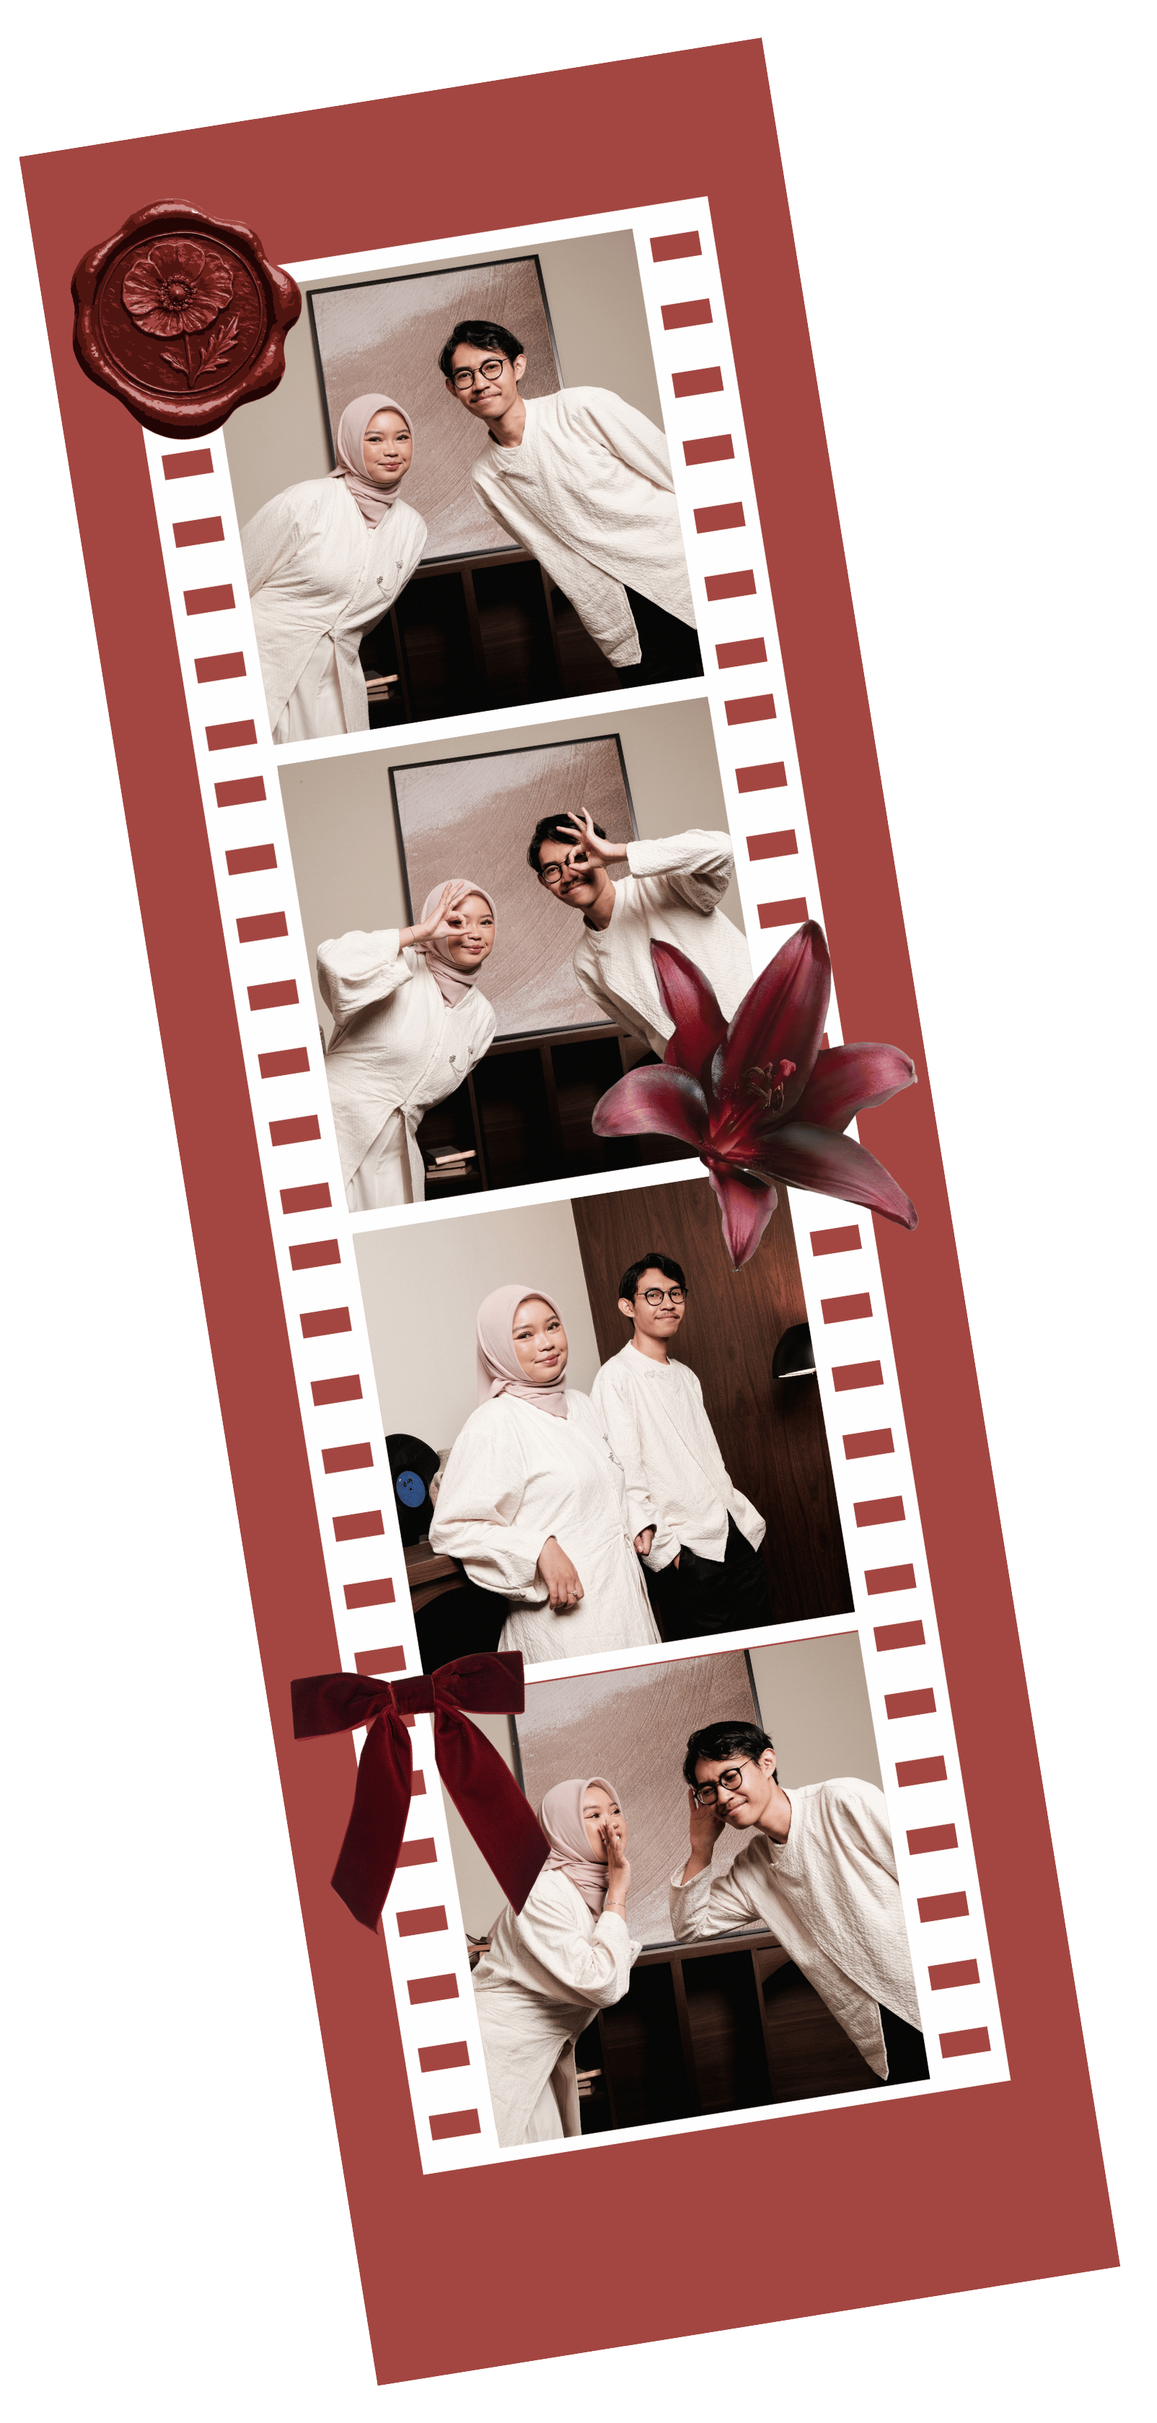
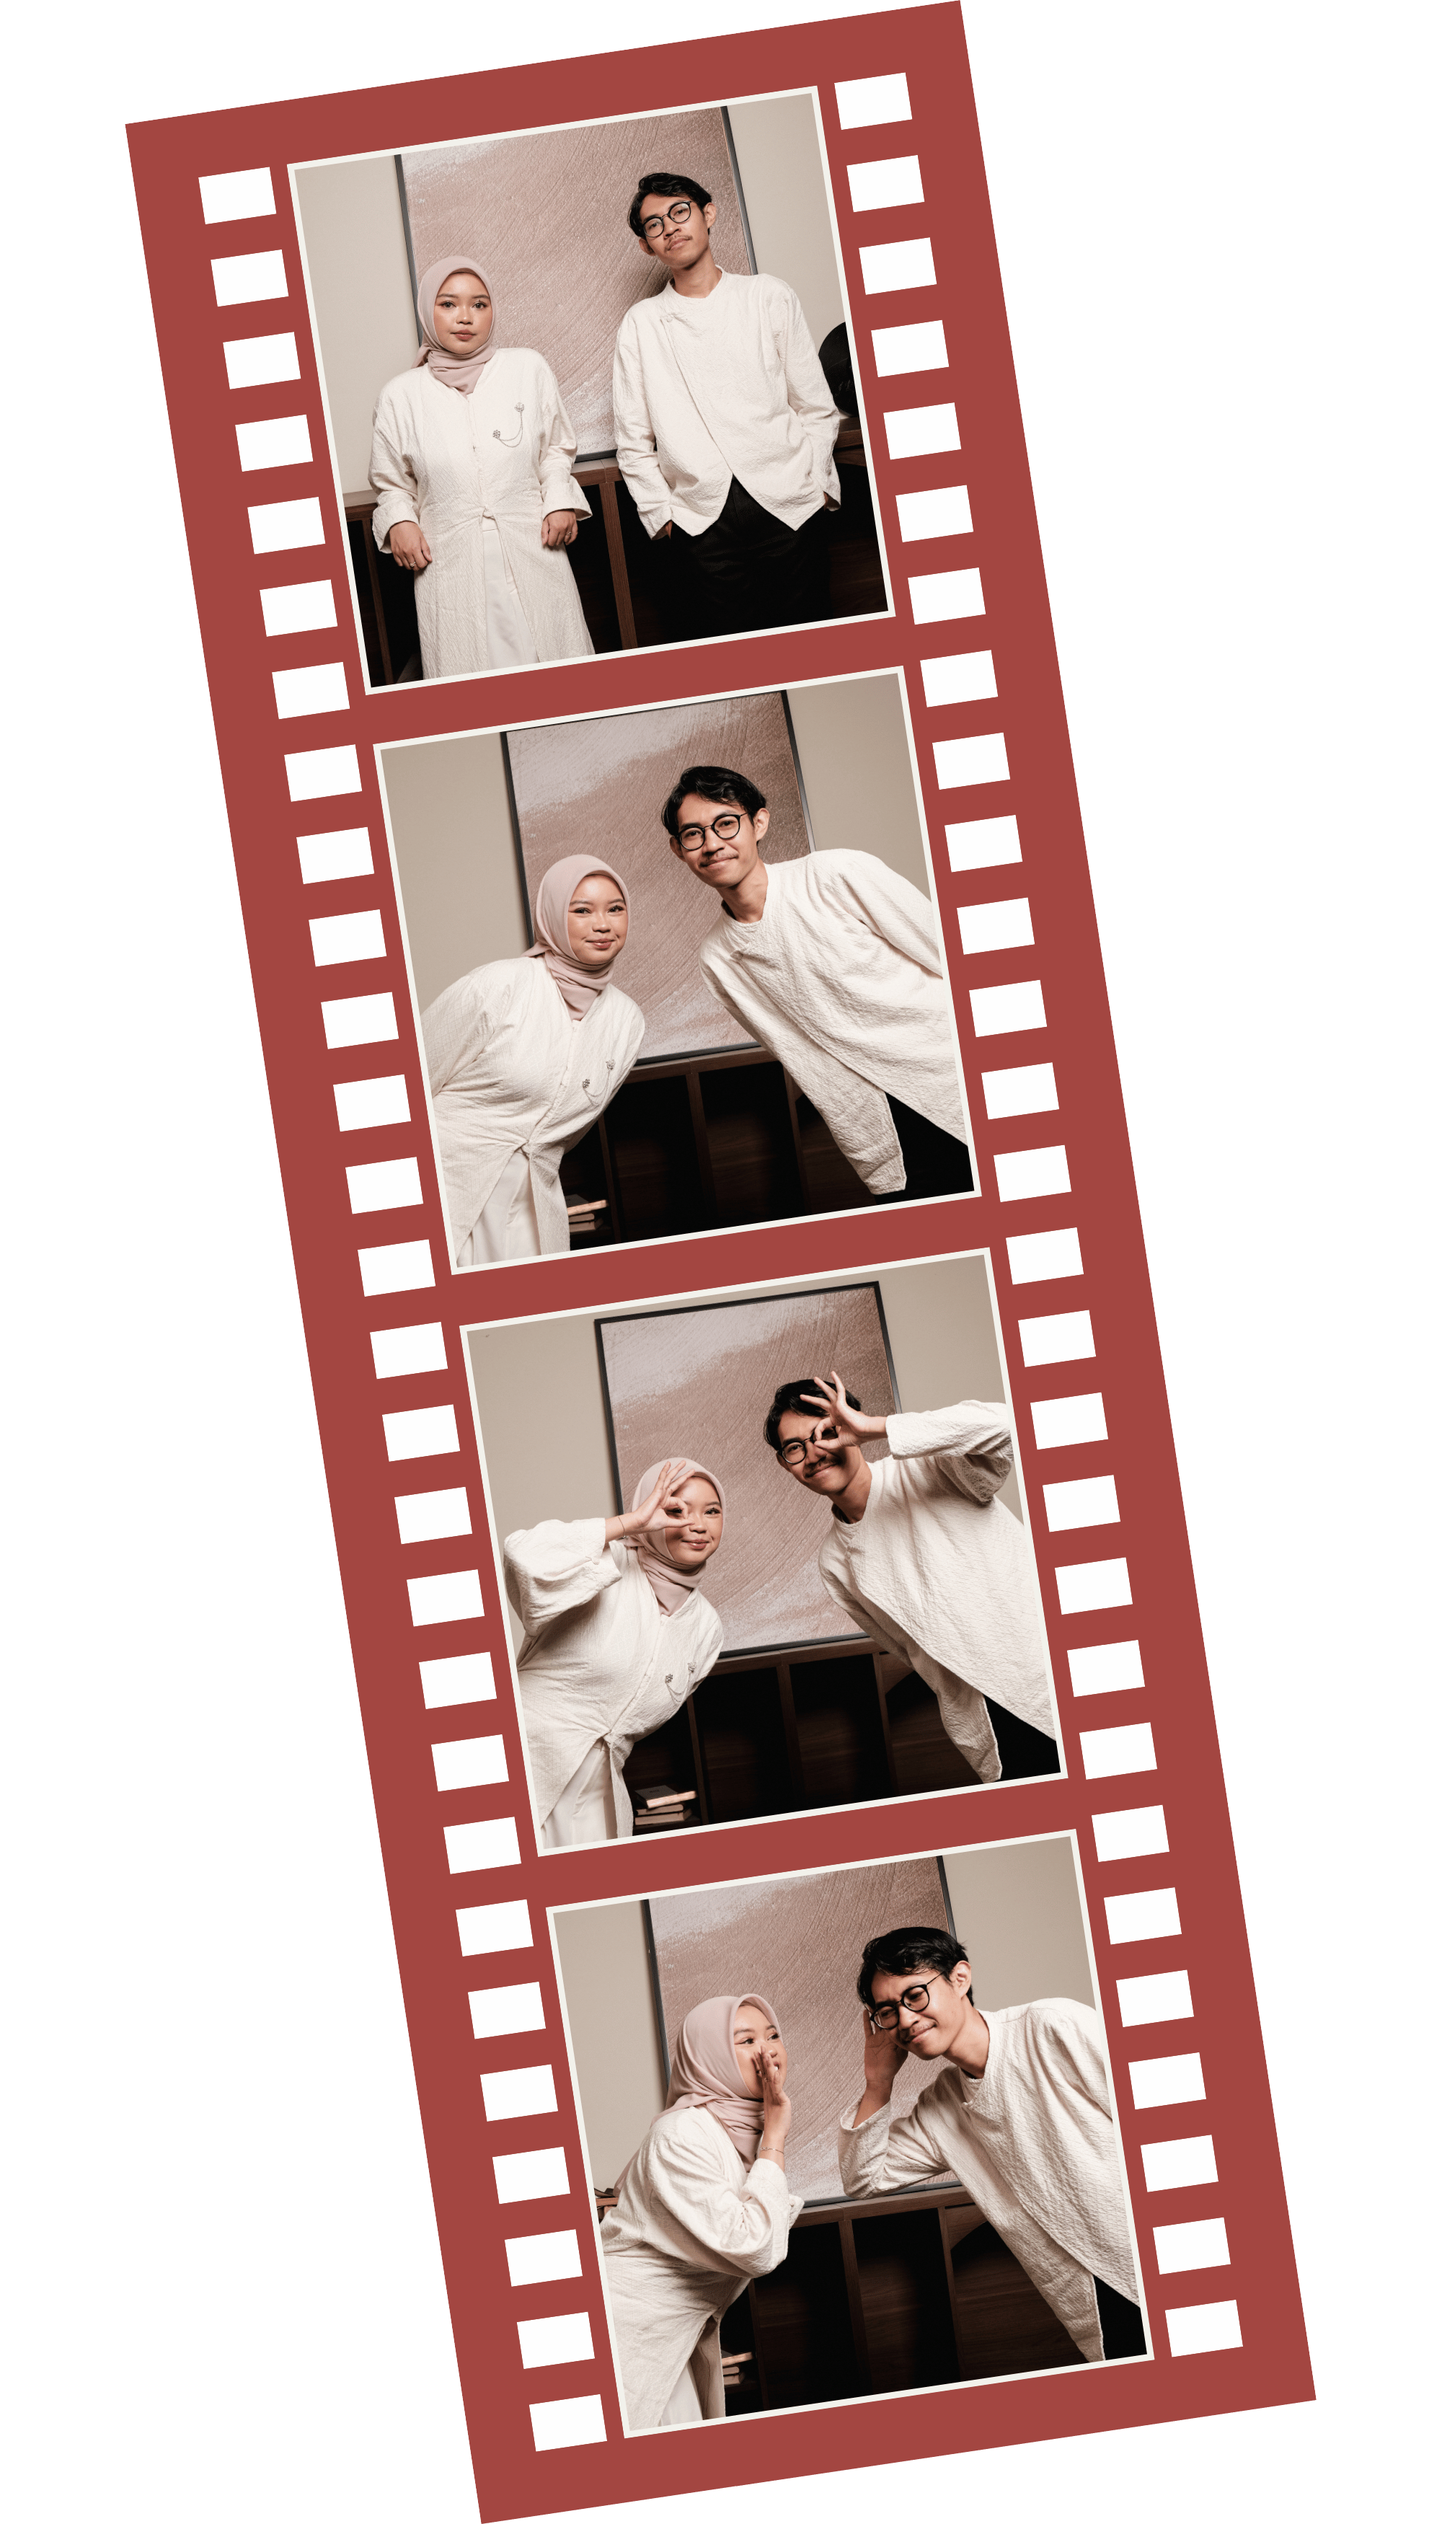
ganti foto photobooth

diff --git a/src/components/invite/photobooth-section.tsx b/src/components/invite/photobooth-section.tsx
@@ -35,12 +35,12 @@ export default function PhotoboothSection({ groom, bride }: Props) {
           className="relative w-[62%] max-w-[320px] shrink-0 translate-x-[4.25rem] sm:translate-x-[5.25rem] md:translate-x-[6.25rem]"
         >
           <Image
-            src="/images/photobooth.png?v=2"
+            src="/images/photobooth.png?v=4"
             alt="Photo Booth"
-            width={1291}
-            height={2512}
+            width={2000}
+            height={3500}
             sizes="(max-width: 640px) 62vw, 320px"
-            className="h-auto w-full object-contain drop-shadow-[0_8px_20px_rgba(0,0,0,0.06)]"
+            className="h-auto w-full scale-110 object-contain drop-shadow-[0_8px_20px_rgba(0,0,0,0.06)]"
           />
         </motion.div>
       </div>
